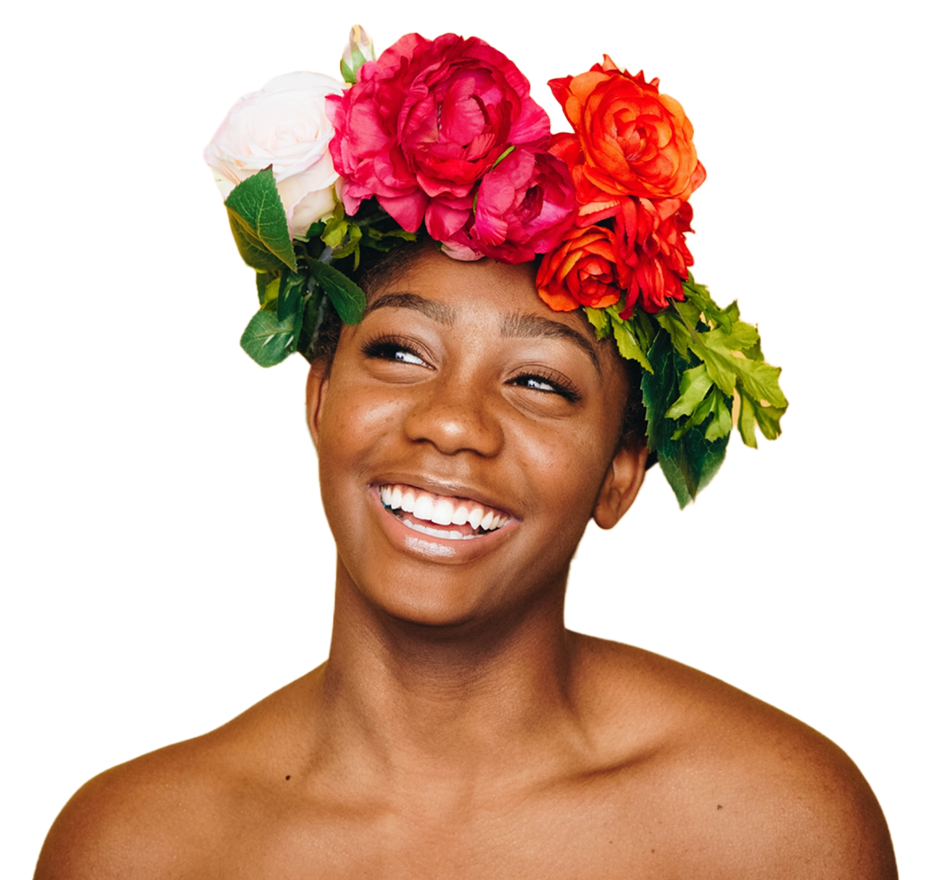
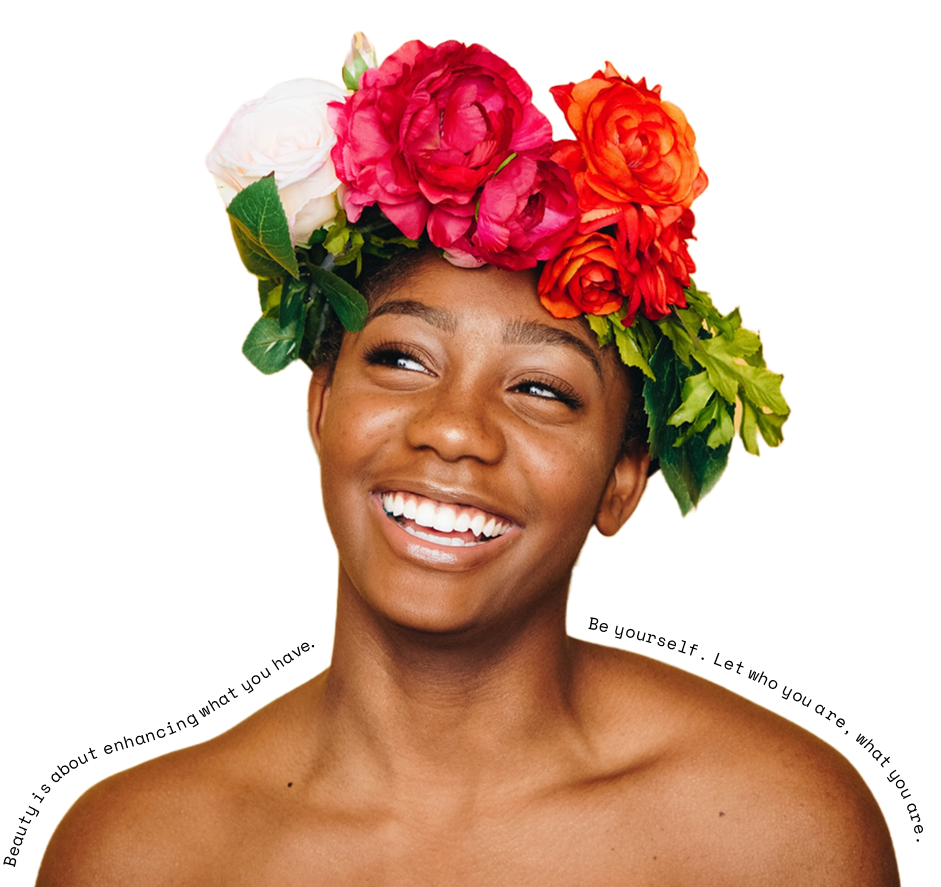
feat: 💄 Encabezado terminado

diff --git a/src/css/page49.css b/src/css/page49.css
@@ -4,3 +4,51 @@
     margin: 0;
     box-sizing: border-box;
 }
+body{
+    display: grid;
+    background: var(--color-65);
+    grid-template-columns: repeat(2, 1fr);
+    grid-template-areas: "header content";
+    padding: 100px 10px 0 106px; 
+}
+
+header{
+    grid-area: header;
+    display: flex;
+    align-items: flex-start;
+    flex-direction: column;
+    justify-content: center;
+    /* padding: 70px 0 54px 0;
+    margin-left: 169px; */
+    width: 591px;
+    gap: 40px;
+}
+header h1{
+    font-family: "Bitter-ExtraBold";
+    font-size: 72px;
+    line-height: 96px;
+    color: var(--color-62);
+}  
+header img{
+    object-fit: cover;
+    padding: 0 0 32px 0;
+}
+
+header p{
+    font-family: "SpaceMono-Regular";
+    color: var(--color-63);
+    font-size: 24px;
+    line-height: 34px;
+    padding-right: 66px;
+}
+
+header a{
+    font-family: "SpaceMono-Regular";
+    font-size: 20px;
+    line-height: 18px;
+    padding: 24px 40px;
+    border-radius: 40px;
+    background-color: var(--color-62);
+    color: var(--color-64);
+    text-decoration: none;
+}

diff --git a/src/css/variables.css b/src/css/variables.css
@@ -61,7 +61,7 @@
     --color-62: #181818;
     --color-63: #252525;
     --color-64: #FFFFFF;
-    --color-65: linear-gradient(-15deg, #F8D696 0%, #EABF61 100%);
+    --color-65: linear-gradient(-15deg, #EABF61 0%, #F8D696 100%);
     --color-66: rgba(252, 235, 201, 0.8);
 }
 @font-face {

diff --git a/views/page49.html b/views/page49.html
@@ -1,6 +1,10 @@
 <!DOCTYPE html>
 <html lang="es">
 <head>
+    <meta charset="UTF-8">
+    <meta name="viewport" content="width=device-width, initial-scale=1.0">
+    <title>Page 49</title>
+    <link rel="stylesheet" href="../src/css/page49.css">
 </head>
 <body>
     <header>
